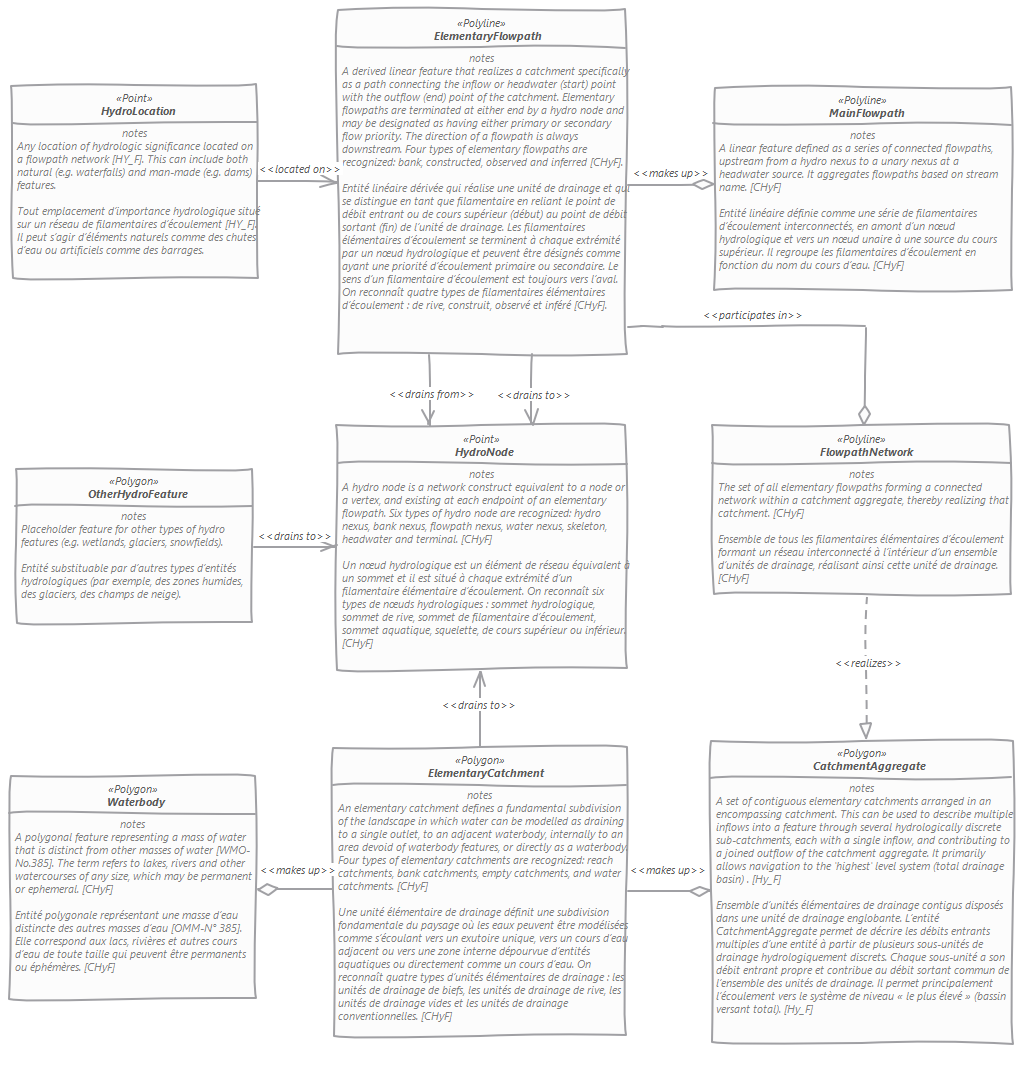
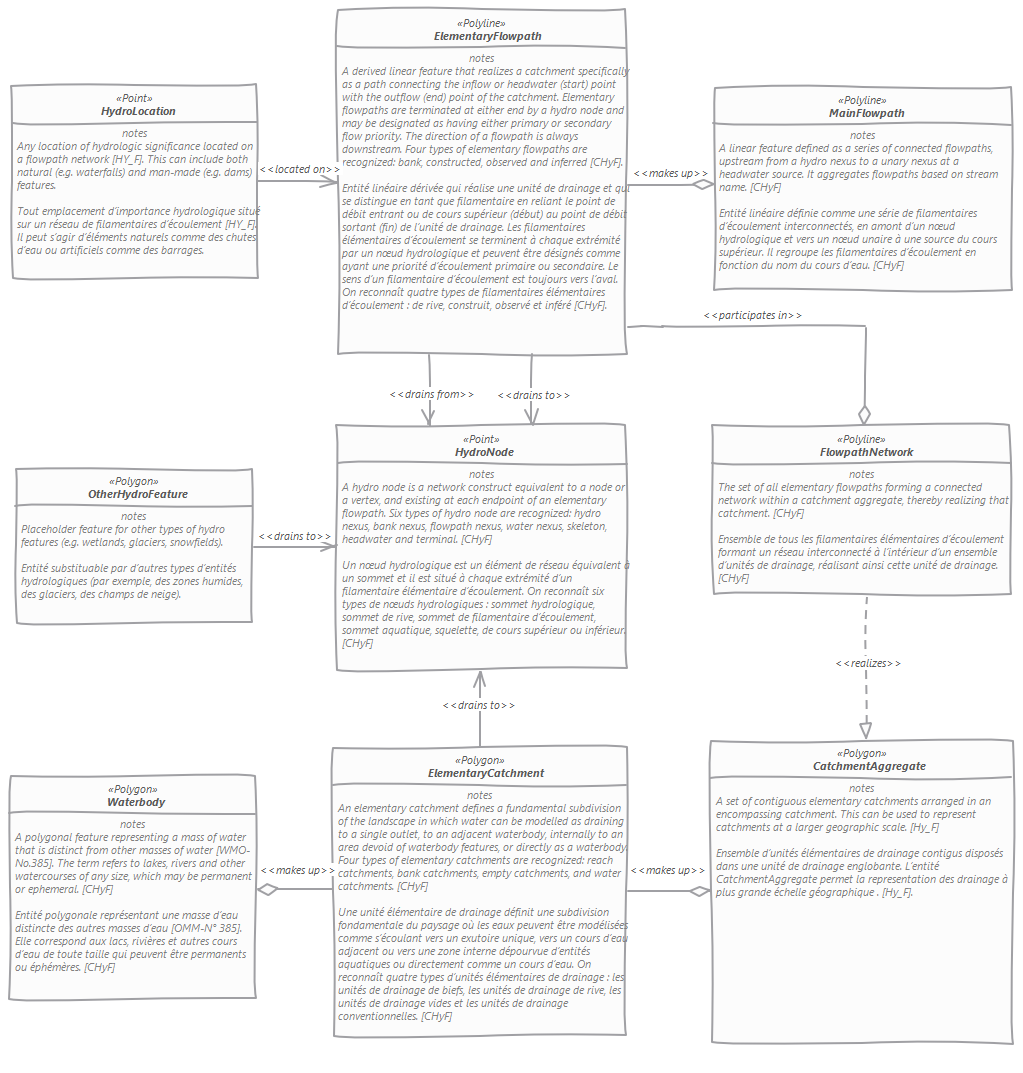
update definitions

Changed region(s): [[0.697, 0.7381, 1.0, 0.9534]]

diff --git a/EARoot/EA1/EA16.htm b/EARoot/EA1/EA16.htm
@@ -357,15 +357,11 @@ function nameClassifier(name, separator)
 					</td>
 					<td width="30%" class="TableRow" valign="top">
 						<strong>Name:</strong> outflow<br />
-						Outflow point of the contributing flowpath. For a dendritic network of flowpaths, the outflow of a contributing flowpath coincides with the inflow to a receiving flowpath. This supports description of upstream-downstream relationships between flowpaths [HY_F].
-
-Point de débit sortant du filamentaire d’écoulement contributif. Pour un réseau dendritique de filamentaires d’écoulement, le débit sortant d’un filamentaire d’écoulement contributif coïncide avec le débit entrant d’un filamentaire d’écoulement récepteur. Cela permet de décrire les relations amont-aval entre les filamentaires d’écoulement [HY_F].
+						Outflow point of the contributing flowpath. For a dendritic network of flowpaths, the outflow of a contributing flowpath coincides with the inflow to a receiving flowpath. This supports description of upstream-downstream relationships between flowpaths [HY_F]. ----- Point de débit sortant du filamentaire d’écoulement contributif. Pour un réseau dendritique de filamentaires d’écoulement, le débit sortant d’un filamentaire d’écoulement contributif coïncide avec le débit entrant d’un filamentaire d’écoulement récepteur. Cela permet de décrire les relations amont-aval entre les filamentaires d’écoulement [HY_F].
 					</td>
 					<td width="30%" class="TableRow" valign="top">
 						<strong>Name:</strong> contributingFlowpath<br />
-						Identifies the flowpath that contributes flow to this hydro node. This allows connection of the flowpath's outflow to an identified inflow and to determine its position through referencing the inflow [HY_F].
-
-Identifie le filamentaire d’écoulement qui contribue au débit vers ce nœud hydrologique. Cela permet de relier le débit sortant du filamentaire d’écoulement au débit entrant identifié et de déterminer sa position en se rapportant au débit entrant [HY_F].	
+						Identifies the flowpath that contributes flow to this hydro node. This allows connection of the flowpath's outflow to an identified inflow and to determine its position through referencing the inflow [HY_F]. ----- Identifie le filamentaire d’écoulement qui contribue au débit vers ce nœud hydrologique. Cela permet de relier le débit sortant du filamentaire d’écoulement au débit entrant identifié et de déterminer sa position en se rapportant au débit entrant [HY_F].	
 					</td>
 				</tr>
 				<tr>
@@ -384,15 +380,11 @@ Identifie le filamentaire d’écoulement qui contribue au débit vers ce nœud 
 					</td>
 					<td width="30%" class="TableRow" valign="top">
 						<strong>Name:</strong> inflow<br />
-						Hydro node in terms of inflow to the receiving flowpath. For a dendritic network of flowpaths, the outflow of a contributing flowpath coincides with the inflow to a receiving flowpath. This supports description of upstream-downstream relationships between catchments [HY_F].
-
-Nœud hydrologique relatif au débit entrant vers le filamentaire d’écoulement récepteur. Pour un réseau dendritique de filamentaires d’écoulement, le débit sortant d’un filamentaire d’écoulement contributif coïncide avec le débit entrant d’un filamentaire d’écoulement récepteur. Cela permet de décrire les relations amont-aval entre les unités de drainage [HY_F].
+						Hydro node in terms of inflow to the receiving flowpath. For a dendritic network of flowpaths, the outflow of a contributing flowpath coincides with the inflow to a receiving flowpath. This supports description of upstream-downstream relationships between catchments [HY_F]. ----- Nœud hydrologique relatif au débit entrant vers le filamentaire d’écoulement récepteur. Pour un réseau dendritique de filamentaires d’écoulement, le débit sortant d’un filamentaire d’écoulement contributif coïncide avec le débit entrant d’un filamentaire d’écoulement récepteur. Cela permet de décrire les relations amont-aval entre les unités de drainage [HY_F].
 					</td>
 					<td width="30%" class="TableRow" valign="top">
 						<strong>Name:</strong> receivingFlowpath<br />
-						Identifies the flowpath that receives flow from this hydro node. This allows connection of a flowpath's inflow to an identified outflow and to determine its position through referencing the outflow [HY_F].
-
-Identifie le filamentaire d’écoulement qui reçoit le débit de ce nœud hydrologique. Cela permet de relier le débit entrant d’un filamentaire d’écoulement à un débit sortant identifié et de déterminer sa position en se rapportant au débit sortant [HY_F].	
+						Identifies the flowpath that receives flow from this hydro node. This allows connection of a flowpath's inflow to an identified outflow and to determine its position through referencing the outflow [HY_F]. ----- Identifie le filamentaire d’écoulement qui reçoit le débit de ce nœud hydrologique. Cela permet de relier le débit entrant d’un filamentaire d’écoulement à un débit sortant identifié et de déterminer sa position en se rapportant au débit sortant [HY_F].	
 					</td>
 				</tr>
 				<tr>
@@ -444,15 +436,11 @@ Identifie le filamentaire d’écoulement qui reçoit le débit de ce nœud hydr
 					</td>
 					<td width="30%" class="TableRow" valign="top">
 						<strong>Name:</strong> contributingCatchment<br />
-						Identifies the catchment that contributes flow to this hydro node. This allows connection of a catchment’s outflow to an identified inflow and to determine its position through referencing the inflow [HY_F].
-
-Identifie l’unité de drainage qui contribue au débit vers ce nœud hydrologique. Cela permet de relier le débit sortant d’une unité de drainage au débit entrant identifié et de déterminer sa position en se rapportant au débit entrant [HY_F].
+						Identifies the catchment that contributes flow to this hydro node. This allows connection of a catchment’s outflow to an identified inflow and to determine its position through referencing the inflow [HY_F]. ----- Identifie l’unité de drainage qui contribue au débit vers ce nœud hydrologique. Cela permet de relier le débit sortant d’une unité de drainage au débit entrant identifié et de déterminer sa position en se rapportant au débit entrant [HY_F].
 					</td>
 					<td width="30%" class="TableRow" valign="top">
 						<strong>Name:</strong> outflow<br />
-						Outflow point of the contributing flowpath. For a dendritic network of flowpaths, the outflow of a contributing flowpath coincides with the inflow to a receiving flowpath. This supports description of upstream-downstream relationships between flowpaths [HY_F].
-
-Point de débit sortant du filamentaire d’écoulement contributif. Pour un réseau dendritique de filamentaires d’écoulement, le débit sortant d’un filamentaire d’écoulement contributif coïncide avec le débit entrant d’un filamentaire d’écoulement récepteur. Cela permet de décrire les relations amont-aval entre les filamentaires d’écoulement [HY_F].	
+						Outflow point of the contributing flowpath. For a dendritic network of flowpaths, the outflow of a contributing flowpath coincides with the inflow to a receiving flowpath. This supports description of upstream-downstream relationships between flowpaths [HY_F]. ----- Point de débit sortant du filamentaire d’écoulement contributif. Pour un réseau dendritique de filamentaires d’écoulement, le débit sortant d’un filamentaire d’écoulement contributif coïncide avec le débit entrant d’un filamentaire d’écoulement récepteur. Cela permet de décrire les relations amont-aval entre les filamentaires d’écoulement [HY_F].	
 					</td>
 				</tr>
 				<tr>

diff --git a/EARoot/EA1/EA12.htm b/EARoot/EA1/EA12.htm
@@ -42,7 +42,7 @@ function nameClassifier(name, separator)
 		</tr>
 		<tr>
 			<td class="ObjectDetailsTopic">Modified:</td>
-			<td class="ObjectDetailsValue">2021-05-13 4:52:22 PM</td>
+			<td class="ObjectDetailsValue">2021-05-14 10:45:25 AM</td>
 		</tr>
 		<tr style="height: 10px"><td colspan="2"></td></tr>
 		<tr>
@@ -94,7 +94,7 @@ function nameClassifier(name, separator)
 			<td class="ObjectDetailsValue"><a href="../EA3.htm">Fig2. Logical Model</a>, <a href="../EA1.htm">Fig1. Conceptual Model</a>, <a href="../EA4/EA42.htm">Fig5. Network Connectivity</a>, <a href="../EA4/EA48.htm">Fig8. Catchment-HydroNode</a>, <a href="../EA4/EA50.htm">Fig9. OtherHydroFeature</a></td>
 		</tr>
 	</table>
-	<div class="ObjectDetailsNotes">An elementary catchment defines a fundamental subdivision of the landscape in which water can be modelled as draining to a single outlet, to an adjacent waterbody, internally to an area devoid of waterbody features, or directly as a waterbody. Four types of elementary catchments are recognized: reach catchments, bank catchments, empty catchments, and water catchments. [&lt;a href=&quot;file://{entary-catchment}&#39;)&quot;&gt;&lt;font color=&quot;#0000ff&quot;&gt;&lt;u&gt;CHyF&lt;/u&gt;&lt;/font&gt;&lt;/a&gt;]&lt;br/&gt;&lt;br/&gt;Une unit&#233; &#233;l&#233;mentaire de drainage d&#233;finit une subdivision fondamentale du paysage o&#249; les eaux peuvent &#234;tre mod&#233;lis&#233;es comme s&#8217;&#233;coulant vers un exutoire unique, vers un cours d&#8217;eau adjacent ou vers une zone interne d&#233;pourvue d&#8217;entit&#233;s aquatiques ou directement comme un cours d&#8217;eau. On reconna&#238;t quatre types d&#8217;unit&#233;s &#233;l&#233;mentaires de drainage : les unit&#233;s de drainage de biefs, les unit&#233;s de drainage de rive, les unit&#233;s de drainage vides et les unit&#233;s de drainage conventionnelles. [&lt;font color=&quot;#0000ff&quot;&gt;&lt;u&gt;CHyF&lt;/u&gt;&lt;/font&gt;]&lt;br/&gt;</div>
+	<div class="ObjectDetailsNotes">An elementary catchment defines a fundamental subdivision of the landscape in which water can be modelled as draining to a single outlet, to an adjacent waterbody, internally to an area devoid of waterbody features, or directly as a waterbody. Four types of elementary catchments are recognized: reach catchments, bank catchments, empty catchments, and water catchments. [&lt;a href=&quot;file://{entary-catchment}&#39;)&quot;&gt;&lt;font color=&quot;#0000ff&quot;&gt;&lt;u&gt;CHyF&lt;/u&gt;&lt;/font&gt;&lt;/a&gt;] &lt;br/&gt;&lt;br/&gt;Une unit&#233; &#233;l&#233;mentaire de drainage d&#233;finit une subdivision fondamentale du paysage o&#249; les eaux peuvent &#234;tre mod&#233;lis&#233;es comme s&#8217;&#233;coulant vers un exutoire unique, vers un cours d&#8217;eau adjacent ou vers une zone interne d&#233;pourvue d&#8217;entit&#233;s aquatiques ou directement comme un cours d&#8217;eau. On reconna&#238;t quatre types d&#8217;unit&#233;s &#233;l&#233;mentaires de drainage : les unit&#233;s de drainage de biefs, les unit&#233;s de drainage de rive, les unit&#233;s de drainage vides et les unit&#233;s de drainage conventionnelles. [&lt;font color=&quot;#0000ff&quot;&gt;&lt;u&gt;CHyF&lt;/u&gt;&lt;/font&gt;]&lt;br/&gt;</div>
 
 	<div class="TableGroup" id="TableGroup">
 		<ul class="ItemTitle">
@@ -473,11 +473,11 @@ function nameClassifier(name, separator)
 					</td>
 					<td width="30%" class="TableRow" valign="top">
 						<strong>Name:</strong> containedCatchment<br />
-						catchment nested in a containing catchment
+						Catchment nested in a containing catchment [HY_F]. ----- Drainage imbriqué dans un drainage contenant [HY_F].
 					</td>
 					<td width="30%" class="TableRow" valign="top">
 						<strong>Name:</strong> containingCatchment<br />
-						identifies the catchment containing one or more elementary catchments contributing together flow to the common outlet.	
+						Identifies the catchment containing one or more elementary catchments contributing together flow to the common outlet [HY_F]. -----  Identifie le drainage qui contenant un ou plusieurs d’unité élémentaire de drainage contribuant ensemble à l'écoulement vers l'exutoire commun [HY_F].	
 					</td>
 				</tr>
 				<tr>
@@ -496,15 +496,11 @@ function nameClassifier(name, separator)
 					</td>
 					<td width="30%" class="TableRow" valign="top">
 						<strong>Name:</strong> contributingCatchment<br />
-						Identifies the catchment that contributes flow to this hydro node. This allows connection of a catchment’s outflow to an identified inflow and to determine its position through referencing the inflow [HY_F].
-
-Identifie l’unité de drainage qui contribue au débit vers ce nœud hydrologique. Cela permet de relier le débit sortant d’une unité de drainage au débit entrant identifié et de déterminer sa position en se rapportant au débit entrant [HY_F].
+						Identifies the catchment that contributes flow to this hydro node. This allows connection of a catchment’s outflow to an identified inflow and to determine its position through referencing the inflow [HY_F]. ----- Identifie l’unité de drainage qui contribue au débit vers ce nœud hydrologique. Cela permet de relier le débit sortant d’une unité de drainage au débit entrant identifié et de déterminer sa position en se rapportant au débit entrant [HY_F].
 					</td>
 					<td width="30%" class="TableRow" valign="top">
 						<strong>Name:</strong> outflow<br />
-						Outflow point of the contributing flowpath. For a dendritic network of flowpaths, the outflow of a contributing flowpath coincides with the inflow to a receiving flowpath. This supports description of upstream-downstream relationships between flowpaths [HY_F].
-
-Point de débit sortant du filamentaire d’écoulement contributif. Pour un réseau dendritique de filamentaires d’écoulement, le débit sortant d’un filamentaire d’écoulement contributif coïncide avec le débit entrant d’un filamentaire d’écoulement récepteur. Cela permet de décrire les relations amont-aval entre les filamentaires d’écoulement [HY_F].	
+						Outflow point of the contributing flowpath. For a dendritic network of flowpaths, the outflow of a contributing flowpath coincides with the inflow to a receiving flowpath. This supports description of upstream-downstream relationships between flowpaths [HY_F]. ----- Point de débit sortant du filamentaire d’écoulement contributif. Pour un réseau dendritique de filamentaires d’écoulement, le débit sortant d’un filamentaire d’écoulement contributif coïncide avec le débit entrant d’un filamentaire d’écoulement récepteur. Cela permet de décrire les relations amont-aval entre les filamentaires d’écoulement [HY_F].	
 					</td>
 				</tr>
 				<tr>
@@ -523,11 +519,11 @@ Point de débit sortant du filamentaire d’écoulement contributif. Pour un ré
 					</td>
 					<td width="30%" class="TableRow" valign="top">
 						<strong>Name:</strong> containedWaterCatchment<br />
-						a catchment that is contained within a water catchment
+						A catchment that is contained within a water catchment [HY_F]. ----- Drainage imbriqué dans un drainage d’eau [HY_F].
 					</td>
 					<td width="30%" class="TableRow" valign="top">
 						<strong>Name:</strong> waterCatchment<br />
-						a type of catchment that presents waterbodies as made up of one or more contained water catchments	
+						Type of catchment that presents waterbodies as made up of one or more contained water catchments [HY_F]. ----- Un type drianage qui présente les plans d'eau comme étant constitués d'un ou plusieurs drainage d'eau contenant. [HY_F].	
 					</td>
 				</tr>
 				<tr>

diff --git a/EARoot/EA1/EA13.htm b/EARoot/EA1/EA13.htm
@@ -764,7 +764,7 @@ function nameClassifier(name, separator)
 					</td>
 					<td width="30%" class="TableRow" valign="top">
 						<strong>Name:</strong> flowpath<br />
-						flowpath that participates in the network
+						Flowpath that participates in the network. ----- Filamentaire qui se livre à la réseau.
 					</td>
 					<td width="30%" class="TableRow" valign="top">
 						<strong>Name:</strong> &nbsp;<br />
@@ -820,15 +820,11 @@ function nameClassifier(name, separator)
 					</td>
 					<td width="30%" class="TableRow" valign="top">
 						<strong>Name:</strong> referenceLocation<br />
-						Identifies the permanent reference location to which a position is assigned to a hydro location feature of interest.
-
-Identifie l’emplacement de référence permanent auquel une position est attribuée à une hydrolocation d’intérêt.
+						Identifies the permanent reference location to which a position is assigned to a hydro location feature of interest. ----- Identifie l’emplacement de référence permanent auquel une position est attribuée à une hydrolocation d’intérêt.
 					</td>
 					<td width="30%" class="TableRow" valign="top">
 						<strong>Name:</strong> linearElement<br />
-						Identifies a flowpath used as the linear element along which a position is assigned to a hydro-location, or any feature of interest.
-
-Identifie un filamentaire d’écoulement utilisé comme élément linéaire le long duquel une position est attribuée à une hydrolocation ou à toute autre entité d’intérêt.	
+						Identifies a flowpath used as the linear element along which a position is assigned to a hydro-location, or any feature of interest. ----- Identifie un filamentaire d’écoulement utilisé comme élément linéaire le long duquel une position est attribuée à une hydrolocation ou à toute autre entité d’intérêt.	
 					</td>
 				</tr>
 				<tr>
@@ -847,15 +843,11 @@ Identifie un filamentaire d’écoulement utilisé comme élément linéaire le 
 					</td>
 					<td width="30%" class="TableRow" valign="top">
 						<strong>Name:</strong> outflow<br />
-						Outflow point of the contributing flowpath. For a dendritic network of flowpaths, the outflow of a contributing flowpath coincides with the inflow to a receiving flowpath. This supports description of upstream-downstream relationships between flowpaths [HY_F].
-
-Point de débit sortant du filamentaire d’écoulement contributif. Pour un réseau dendritique de filamentaires d’écoulement, le débit sortant d’un filamentaire d’écoulement contributif coïncide avec le débit entrant d’un filamentaire d’écoulement récepteur. Cela permet de décrire les relations amont-aval entre les filamentaires d’écoulement [HY_F].
+						Outflow point of the contributing flowpath. For a dendritic network of flowpaths, the outflow of a contributing flowpath coincides with the inflow to a receiving flowpath. This supports description of upstream-downstream relationships between flowpaths [HY_F]. ----- Point de débit sortant du filamentaire d’écoulement contributif. Pour un réseau dendritique de filamentaires d’écoulement, le débit sortant d’un filamentaire d’écoulement contributif coïncide avec le débit entrant d’un filamentaire d’écoulement récepteur. Cela permet de décrire les relations amont-aval entre les filamentaires d’écoulement [HY_F].
 					</td>
 					<td width="30%" class="TableRow" valign="top">
 						<strong>Name:</strong> contributingFlowpath<br />
-						Identifies the flowpath that contributes flow to this hydro node. This allows connection of the flowpath's outflow to an identified inflow and to determine its position through referencing the inflow [HY_F].
-
-Identifie le filamentaire d’écoulement qui contribue au débit vers ce nœud hydrologique. Cela permet de relier le débit sortant du filamentaire d’écoulement au débit entrant identifié et de déterminer sa position en se rapportant au débit entrant [HY_F].	
+						Identifies the flowpath that contributes flow to this hydro node. This allows connection of the flowpath's outflow to an identified inflow and to determine its position through referencing the inflow [HY_F]. ----- Identifie le filamentaire d’écoulement qui contribue au débit vers ce nœud hydrologique. Cela permet de relier le débit sortant du filamentaire d’écoulement au débit entrant identifié et de déterminer sa position en se rapportant au débit entrant [HY_F].	
 					</td>
 				</tr>
 				<tr>
@@ -874,15 +866,11 @@ Identifie le filamentaire d’écoulement qui contribue au débit vers ce nœud 
 					</td>
 					<td width="30%" class="TableRow" valign="top">
 						<strong>Name:</strong> inflow<br />
-						Hydro node in terms of inflow to the receiving flowpath. For a dendritic network of flowpaths, the outflow of a contributing flowpath coincides with the inflow to a receiving flowpath. This supports description of upstream-downstream relationships between catchments [HY_F].
-
-Nœud hydrologique relatif au débit entrant vers le filamentaire d’écoulement récepteur. Pour un réseau dendritique de filamentaires d’écoulement, le débit sortant d’un filamentaire d’écoulement contributif coïncide avec le débit entrant d’un filamentaire d’écoulement récepteur. Cela permet de décrire les relations amont-aval entre les unités de drainage [HY_F].
+						Hydro node in terms of inflow to the receiving flowpath. For a dendritic network of flowpaths, the outflow of a contributing flowpath coincides with the inflow to a receiving flowpath. This supports description of upstream-downstream relationships between catchments [HY_F]. ----- Nœud hydrologique relatif au débit entrant vers le filamentaire d’écoulement récepteur. Pour un réseau dendritique de filamentaires d’écoulement, le débit sortant d’un filamentaire d’écoulement contributif coïncide avec le débit entrant d’un filamentaire d’écoulement récepteur. Cela permet de décrire les relations amont-aval entre les unités de drainage [HY_F].
 					</td>
 					<td width="30%" class="TableRow" valign="top">
 						<strong>Name:</strong> receivingFlowpath<br />
-						Identifies the flowpath that receives flow from this hydro node. This allows connection of a flowpath's inflow to an identified outflow and to determine its position through referencing the outflow [HY_F].
-
-Identifie le filamentaire d’écoulement qui reçoit le débit de ce nœud hydrologique. Cela permet de relier le débit entrant d’un filamentaire d’écoulement à un débit sortant identifié et de déterminer sa position en se rapportant au débit sortant [HY_F].	
+						Identifies the flowpath that receives flow from this hydro node. This allows connection of a flowpath's inflow to an identified outflow and to determine its position through referencing the outflow [HY_F]. ----- Identifie le filamentaire d’écoulement qui reçoit le débit de ce nœud hydrologique. Cela permet de relier le débit entrant d’un filamentaire d’écoulement à un débit sortant identifié et de déterminer sa position en se rapportant au débit sortant [HY_F].	
 					</td>
 				</tr>
 				<tr>

diff --git a/EARoot/EA1/EA11.htm b/EARoot/EA1/EA11.htm
@@ -42,7 +42,7 @@ function nameClassifier(name, separator)
 		</tr>
 		<tr>
 			<td class="ObjectDetailsTopic">Modified:</td>
-			<td class="ObjectDetailsValue">2021-05-13 5:00:05 PM</td>
+			<td class="ObjectDetailsValue">2021-05-14 11:25:33 AM</td>
 		</tr>
 		<tr style="height: 10px"><td colspan="2"></td></tr>
 		<tr>
@@ -94,7 +94,7 @@ function nameClassifier(name, separator)
 			<td class="ObjectDetailsValue"><a href="../EA3.htm">Fig2. Logical Model</a>, <a href="../EA1.htm">Fig1. Conceptual Model</a></td>
 		</tr>
 	</table>
-	<div class="ObjectDetailsNotes">A set of contiguous elementary catchments arranged in an encompassing catchment. This can be used to describe multiple inflows into a feature through several hydrologically discrete sub-catchments, each with a single inflow, and contributing to a joined outflow of the catchment aggregate. It primarily allows navigation to the &#39;highest&#39; level system (total drainage basin) . [Hy_F]&lt;br/&gt;&lt;br/&gt;Ensemble d&#8217;unit&#233;s &#233;l&#233;mentaires de drainage contigus dispos&#233;s dans une unit&#233; de drainage englobante. L&#8217;entit&#233; CatchmentAggregate permet de d&#233;crire les d&#233;bits entrants multiples d&#8217;une entit&#233; &#224; partir de plusieurs sous-unit&#233;s de drainage hydrologiquement discrets. Chaque sous-unit&#233; a son d&#233;bit entrant propre et contribue au d&#233;bit sortant commun de l&#8217;ensemble des unit&#233;s de drainage. Il permet principalement l&#8217;&#233;coulement vers le syst&#232;me de niveau &#171; le plus &#233;lev&#233; &#187; (bassin versant total). [Hy_F]&lt;br/&gt;</div>
+	<div class="ObjectDetailsNotes">A set of contiguous elementary catchments arranged in an encompassing catchment. This can be used to represent catchments at a larger geographic scale. [Hy_F]&lt;br/&gt;&lt;br/&gt;Ensemble d&#8217;unit&#233;s &#233;l&#233;mentaires de drainage contigus dispos&#233;s dans une unit&#233; de drainage englobante. L&#8217;entit&#233; CatchmentAggregate permet la representation des drainage &#224; plus grande &#233;chelle g&#233;ographique . [Hy_F].&lt;br/&gt;</div>
 
 	<div class="TableGroup" id="TableGroup">
 		<ul class="ItemTitle">
@@ -532,11 +532,11 @@ function nameClassifier(name, separator)
 					</td>
 					<td width="30%" class="TableRow" valign="top">
 						<strong>Name:</strong> containedCatchment<br />
-						catchment nested in a containing catchment
+						Catchment nested in a containing catchment [HY_F]. ----- Drainage imbriqué dans un drainage contenant [HY_F].
 					</td>
 					<td width="30%" class="TableRow" valign="top">
 						<strong>Name:</strong> containingCatchment<br />
-						identifies the catchment containing one or more elementary catchments contributing together flow to the common outlet.	
+						Identifies the catchment containing one or more elementary catchments contributing together flow to the common outlet [HY_F]. -----  Identifie le drainage qui contenant un ou plusieurs d’unité élémentaire de drainage contribuant ensemble à l'écoulement vers l'exutoire commun [HY_F].	
 					</td>
 				</tr>
 				<tr>

diff --git a/EARoot/EA1/EA15.htm b/EARoot/EA1/EA15.htm
@@ -530,15 +530,11 @@ function nameClassifier(name, separator)
 					</td>
 					<td width="30%" class="TableRow" valign="top">
 						<strong>Name:</strong> referenceLocation<br />
-						Identifies the permanent reference location to which a position is assigned to a hydro location feature of interest.
-
-Identifie l’emplacement de référence permanent auquel une position est attribuée à une hydrolocation d’intérêt.
+						Identifies the permanent reference location to which a position is assigned to a hydro location feature of interest. ----- Identifie l’emplacement de référence permanent auquel une position est attribuée à une hydrolocation d’intérêt.
 					</td>
 					<td width="30%" class="TableRow" valign="top">
 						<strong>Name:</strong> linearElement<br />
-						Identifies a flowpath used as the linear element along which a position is assigned to a hydro-location, or any feature of interest.
-
-Identifie un filamentaire d’écoulement utilisé comme élément linéaire le long duquel une position est attribuée à une hydrolocation ou à toute autre entité d’intérêt.	
+						Identifies a flowpath used as the linear element along which a position is assigned to a hydro-location, or any feature of interest. ----- Identifie un filamentaire d’écoulement utilisé comme élément linéaire le long duquel une position est attribuée à une hydrolocation ou à toute autre entité d’intérêt.	
 					</td>
 				</tr>
 				<tr>

diff --git a/EARoot/EA5.htm b/EARoot/EA5.htm
@@ -2,7 +2,7 @@
 <html xmlns="http://www.w3.org/1999/xhtml">
 <head>
 <meta http-equiv="Content-Type" content="text/html; charset=UTF-8" />
-<title>NHNv2</title>
+<title>NHNv2 - RHNv2</title>
 <link href="../css/ea.css" rel="stylesheet" type="text/css" />
 <script>
 function initPage(src) {	
@@ -34,7 +34,7 @@ function nameClassifier(name, separator)
 <div class="pageHeader"></div>
 <div class="PageBody">
 	<div id="name_classifier" style="display: none;"></div>
-	<span class="ObjectTitle"><script type="text/javascript">document.write(nameClassifier("NHNv2", " : "))</script> National Hydro Network v2 : Public   Package</span>
+	<span class="ObjectTitle"><script type="text/javascript">document.write(nameClassifier("NHNv2 - RHNv2", " : "))</script> National Hydro Network v2 : Public   Package</span>
 	<table border="0" cellpadding="0" cellspacing="0" class="ObjectDetails">
 		<tr>
 			<td width="15%" class="ObjectDetailsTopic">Created:</td>
@@ -42,7 +42,7 @@ function nameClassifier(name, separator)
 		</tr>
 		<tr>
 			<td class="ObjectDetailsTopic">Modified:</td>
-			<td class="ObjectDetailsValue">2021-05-13 3:54:37 PM</td>
+			<td class="ObjectDetailsValue">2021-05-14 10:42:30 AM</td>
 		</tr>
 		<tr style="height: 10px"><td colspan="2"></td></tr>
 		<tr>

diff --git a/EARoot/EA3.htm b/EARoot/EA3.htm
@@ -41,7 +41,7 @@ function nameClassifier(name, separator)
 <area shape="rect" coords="10,275,154,360" href="./EA1/EA18.htm" target="_self">
 <area shape="rect" coords="305,259,478,361" href="./EA1/EA16.htm" target="_self">
 <area shape="rect" coords="10,37,154,174" href="./EA1/EA15.htm" target="_self">
-<area shape="rect" coords="598,239,752,350" href="./EA1/EA14.htm" target="_self">
+<area shape="rect" coords="599,239,758,350" href="./EA1/EA14.htm" target="_self">
 <area shape="rect" coords="305,10,478,199" href="./EA1/EA13.htm" target="_self">
 <area shape="rect" coords="300,449,483,573" href="./EA1/EA12.htm" target="_self">
 <area shape="rect" coords="587,577,741,714" href="./EA1/EA11.htm" target="_self">
@@ -55,7 +55,7 @@ function nameClassifier(name, separator)
 		</tr>
 		<tr>
 			<td width="15%" class="ObjectDetailsTopic">Modified:</td>
-			<td width="85%" class="ObjectDetailsValue">2021-05-14 10:21:17 AM</td>
+			<td width="85%" class="ObjectDetailsValue">2021-05-14 11:45:45 AM</td>
 		</tr>
 		<tr style="padding-top: 10px;">
 			<td width="15%" class="ObjectDetailsTopic"><img src="../images/plus03.gif" align="absmiddle" id="proj" onclick="parent.toggleData(this.id)" />Project:</td>

diff --git a/EARoot/EA1/EA19.htm b/EARoot/EA1/EA19.htm
@@ -473,11 +473,11 @@ function nameClassifier(name, separator)
 					</td>
 					<td width="30%" class="TableRow" valign="top">
 						<strong>Name:</strong> containedWaterCatchment<br />
-						a catchment that is contained within a water catchment
+						A catchment that is contained within a water catchment [HY_F]. ----- Drainage imbriqué dans un drainage d’eau [HY_F].
 					</td>
 					<td width="30%" class="TableRow" valign="top">
 						<strong>Name:</strong> waterCatchment<br />
-						a type of catchment that presents waterbodies as made up of one or more contained water catchments	
+						Type of catchment that presents waterbodies as made up of one or more contained water catchments [HY_F]. ----- Un type drianage qui présente les plans d'eau comme étant constitués d'un ou plusieurs drainage d'eau contenant. [HY_F].	
 					</td>
 				</tr>
 				<tr>

diff --git a/index.htm b/index.htm
@@ -2,13 +2,13 @@
 <html xmlns="http://www.w3.org/1999/xhtml">
 <head>
 <meta http-equiv="Content-Type" content="text/html; charset=UTF-8" />
-<title>NHNv2</title>
+<title>NHNv2 - RHNv2</title>
 <link href="css/ea.css" rel="stylesheet" type="text/css" />
 <script language="JavaScript" src="js/displayToc.js" type="text/javascript"></script>
 </head>
 <body onload="initLoad(this,'toc.htm','blank.htm')" onresize="resizePage()">
 <div class="IndexTitle">
-	NHNv2
+	NHNv2 - RHNv2
 </div>
 <div class="IndexHeader" id="IndexHeader">
 	<img src="images/Minerva Logo Hori 131x50.png" align="right" alt="Enterprise Architect" />

diff --git a/EARoot/EA1/EA14.htm b/EARoot/EA1/EA14.htm
@@ -415,7 +415,7 @@ function nameClassifier(name, separator)
 					</td>
 					<td width="30%" class="TableRow" valign="top">
 						<strong>Name:</strong> flowpath<br />
-						flowpath that participates in the network
+						Flowpath that participates in the network. ----- Filamentaire qui se livre à la réseau.
 					</td>
 					<td width="30%" class="TableRow" valign="top">
 						<strong>Name:</strong> &nbsp;<br />

diff --git a/EARoot/EA3/EA33.htm b/EARoot/EA3/EA33.htm
@@ -280,7 +280,7 @@ function nameClassifier(name, separator)
 				</td>
 			</tr>			<tr>
 				<td width="100%" class="TableRow">
-					<i>Public conventionnelle</i><br /><strong>&nbsp;&nbsp;4</strong>
+					<i>Public d&#39;eau</i><br /><strong>&nbsp;&nbsp;4</strong>
 				</td>
 			</tr>
 			<tr>

diff --git a/blank.htm b/blank.htm
@@ -2,7 +2,7 @@
 <html xmlns="http://www.w3.org/1999/xhtml">
 <head>
 <meta http-equiv="Content-Type" content="text/html; charset=UTF-8" />
-<title>NHNv2</title>
+<title>NHNv2 - RHNv2</title>
 <link href="css/ea.css" rel="stylesheet" type="text/css" />
 <script>
 function initPage(src) {	
